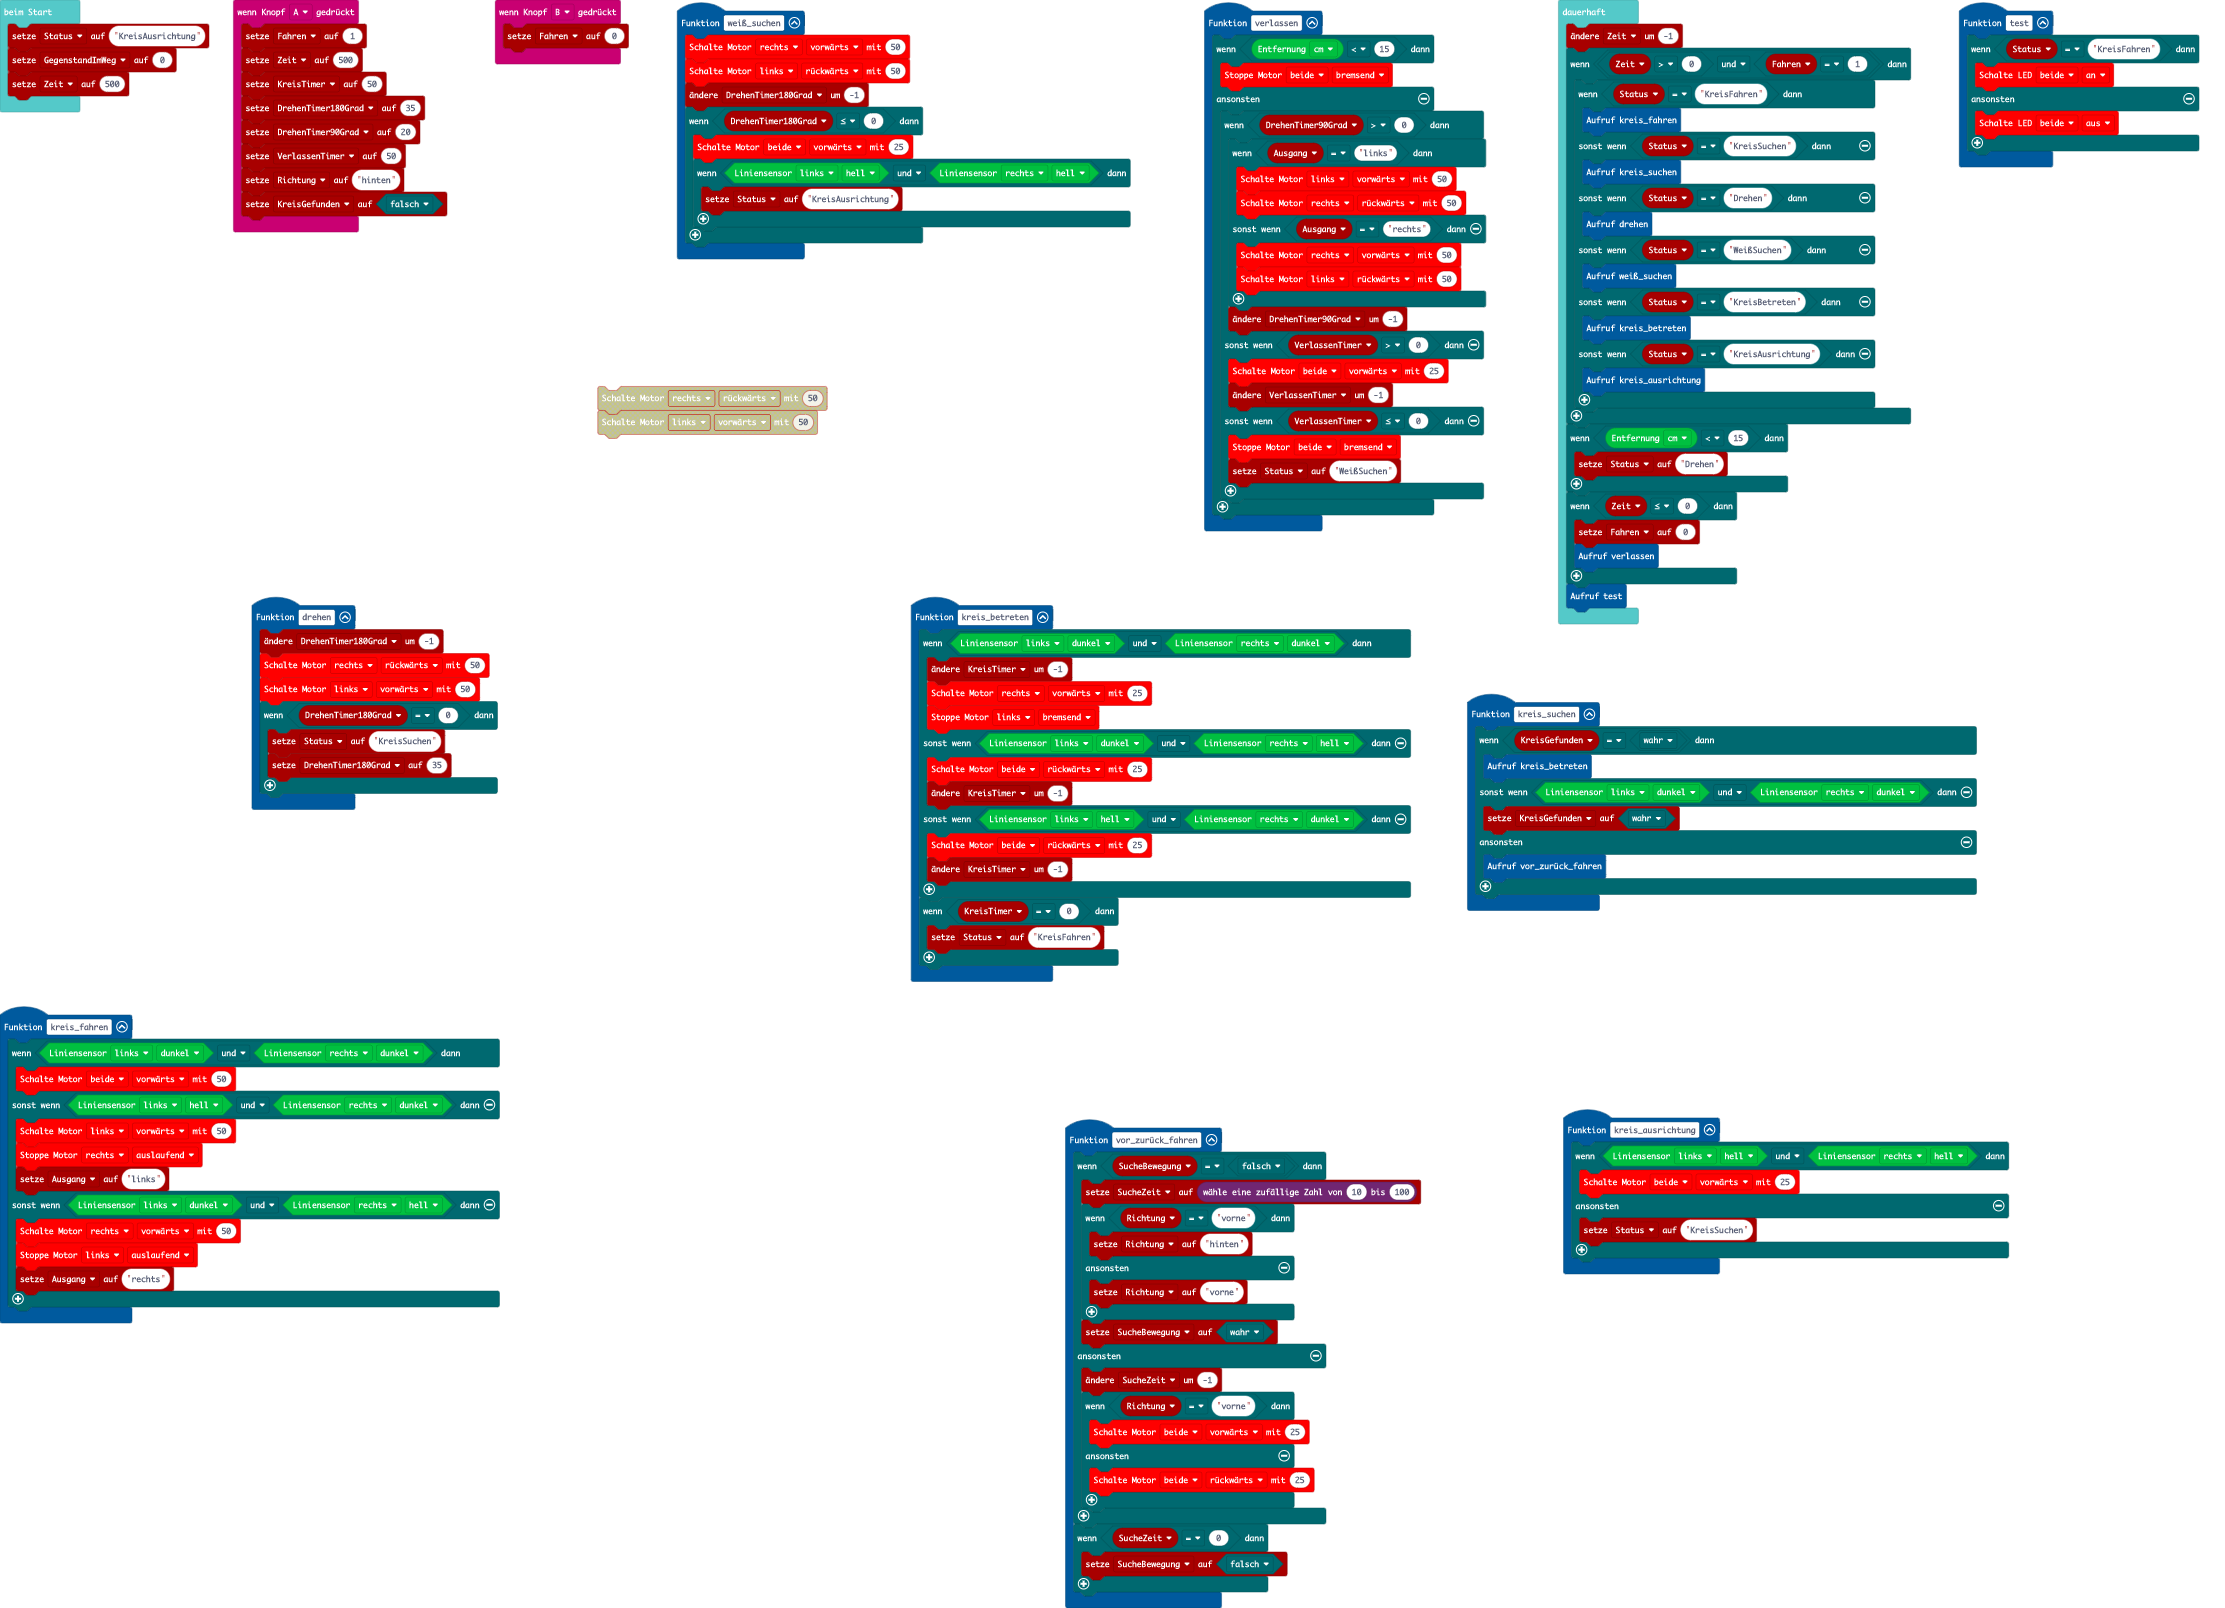
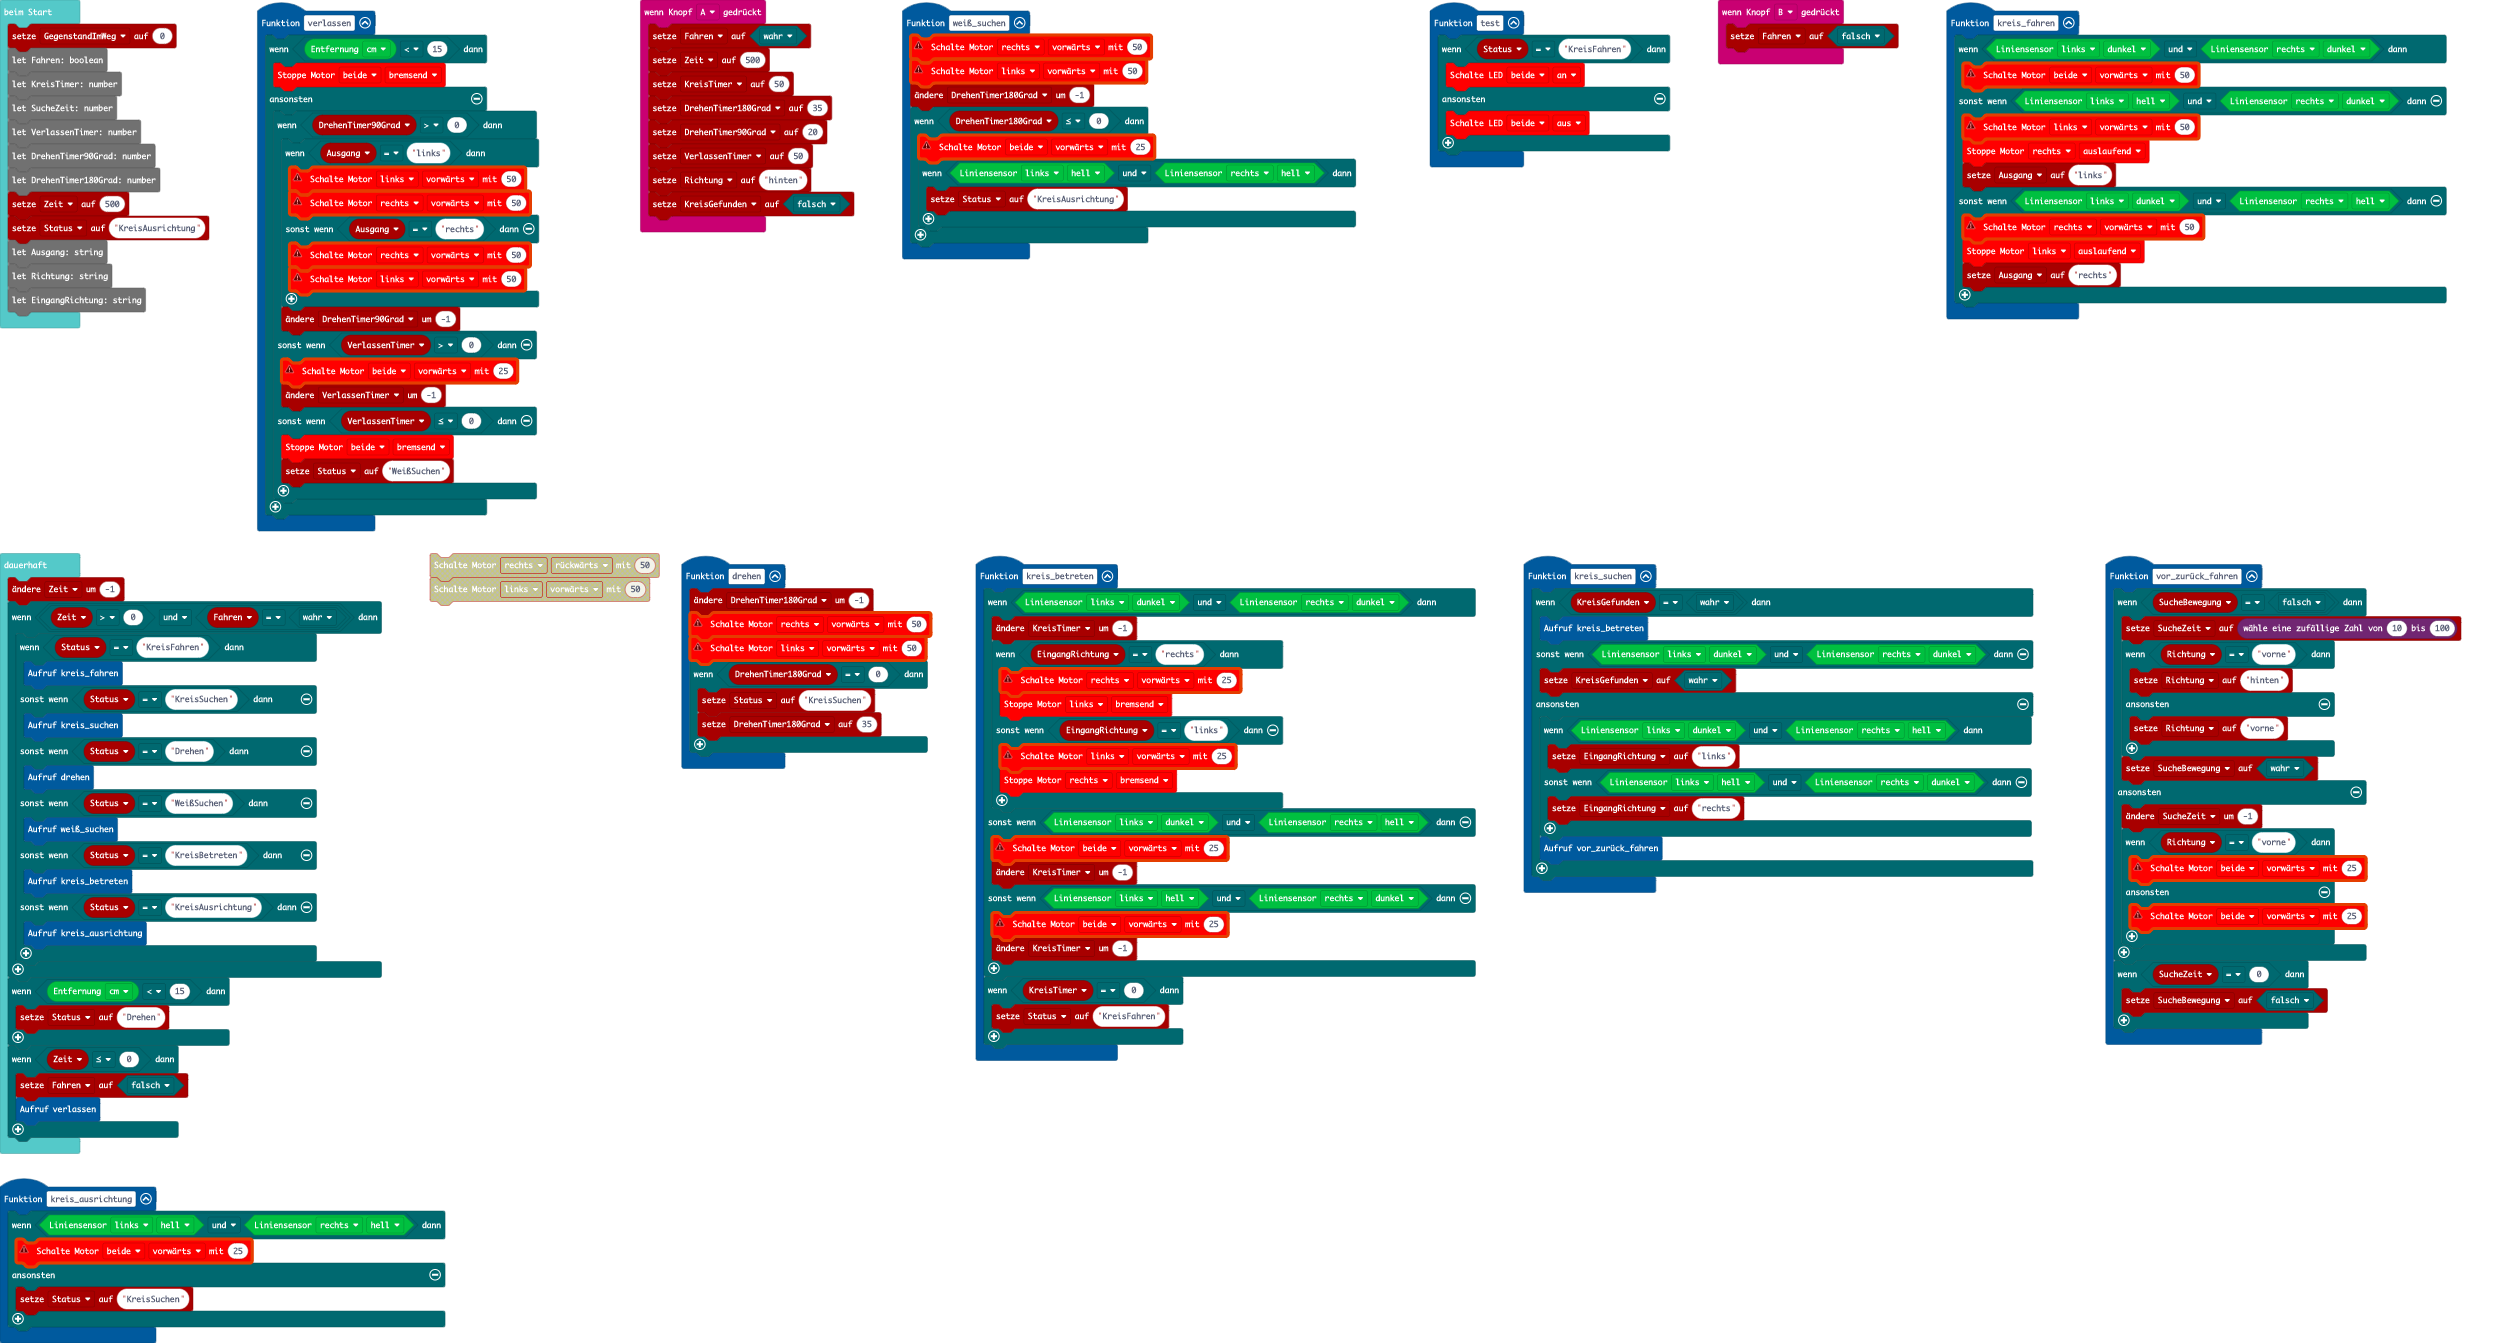
Aktualisiere main.blocks, main.ts

diff --git a/main.ts b/main.ts
@@ -179,5 +179,4 @@ basic.forever(function () {
         Fahren = false
         verlassen()
     }
-    test()
 })
